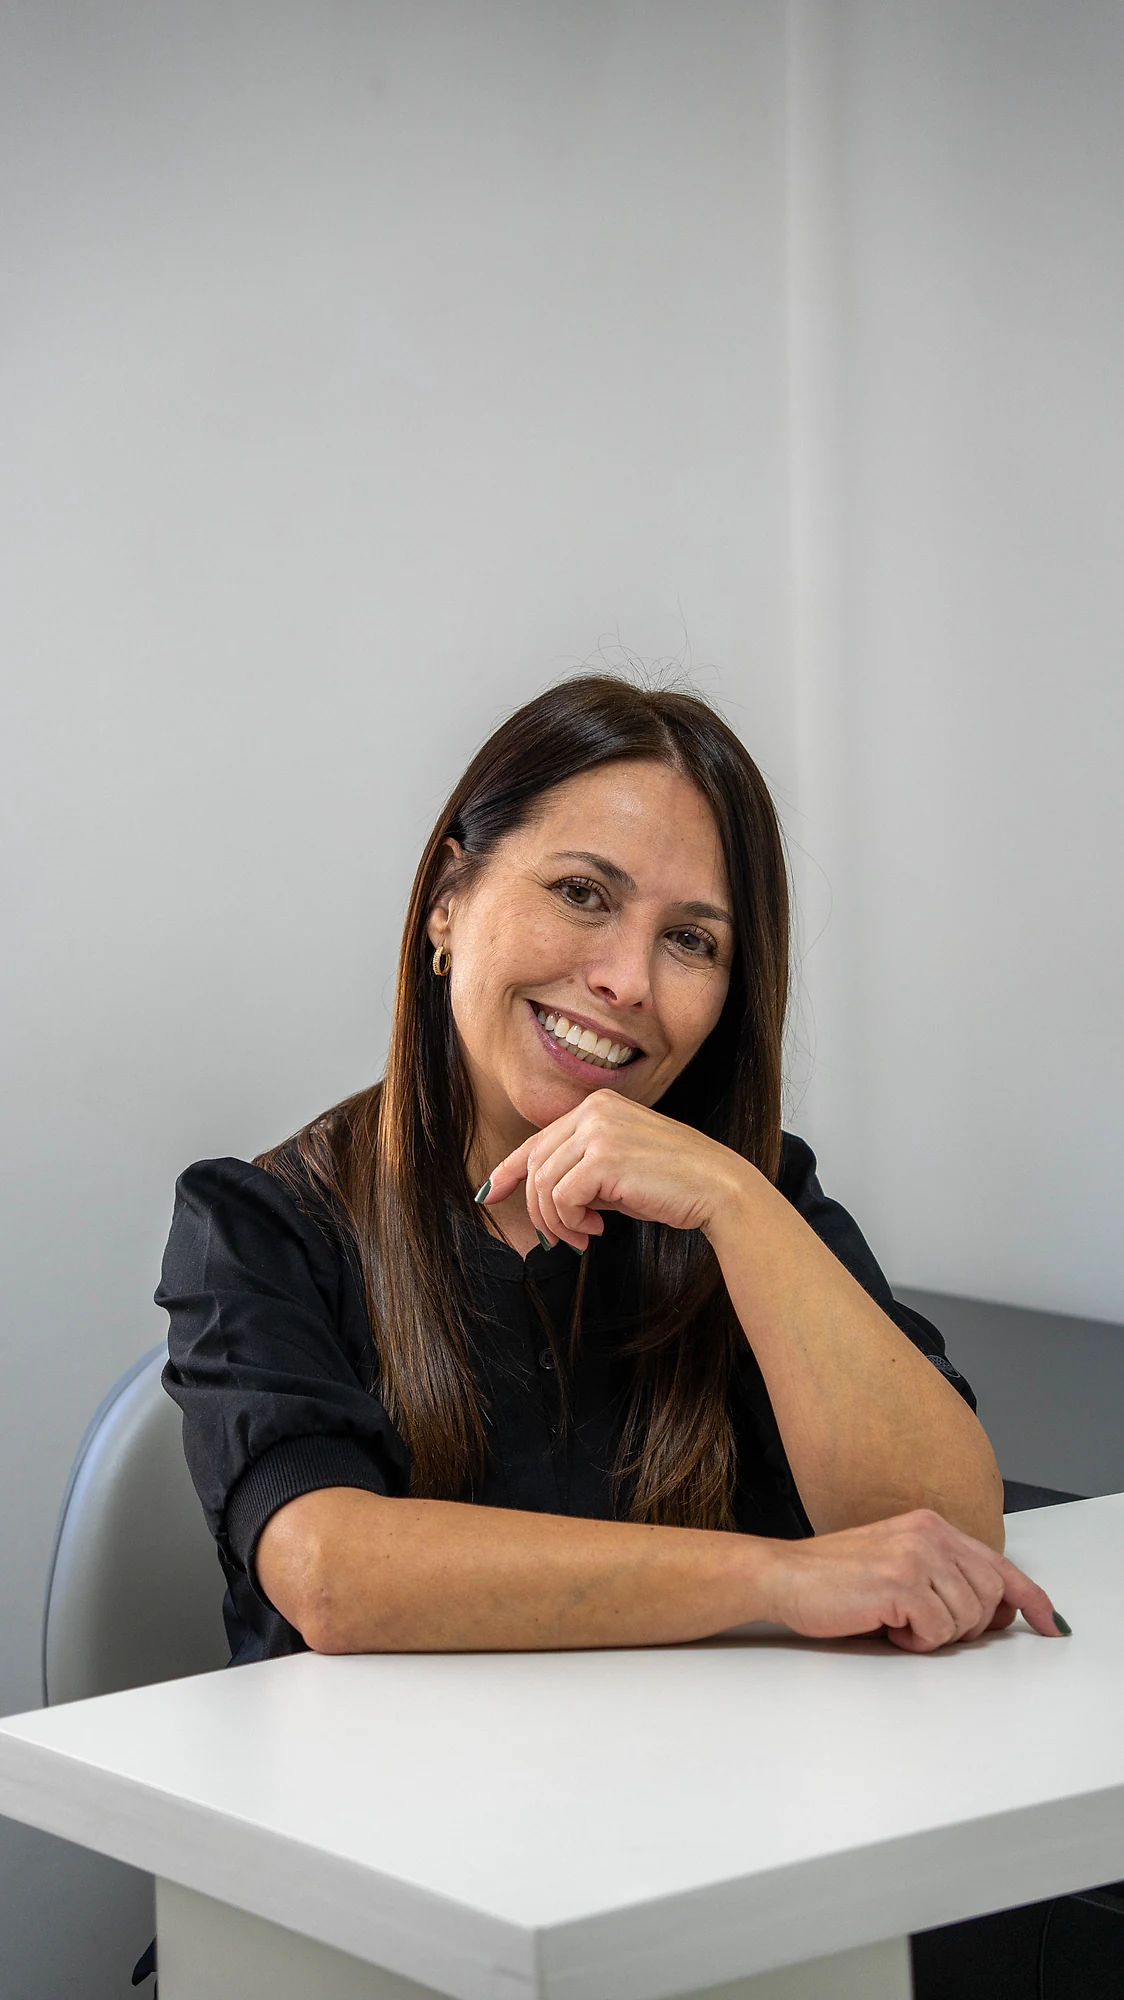
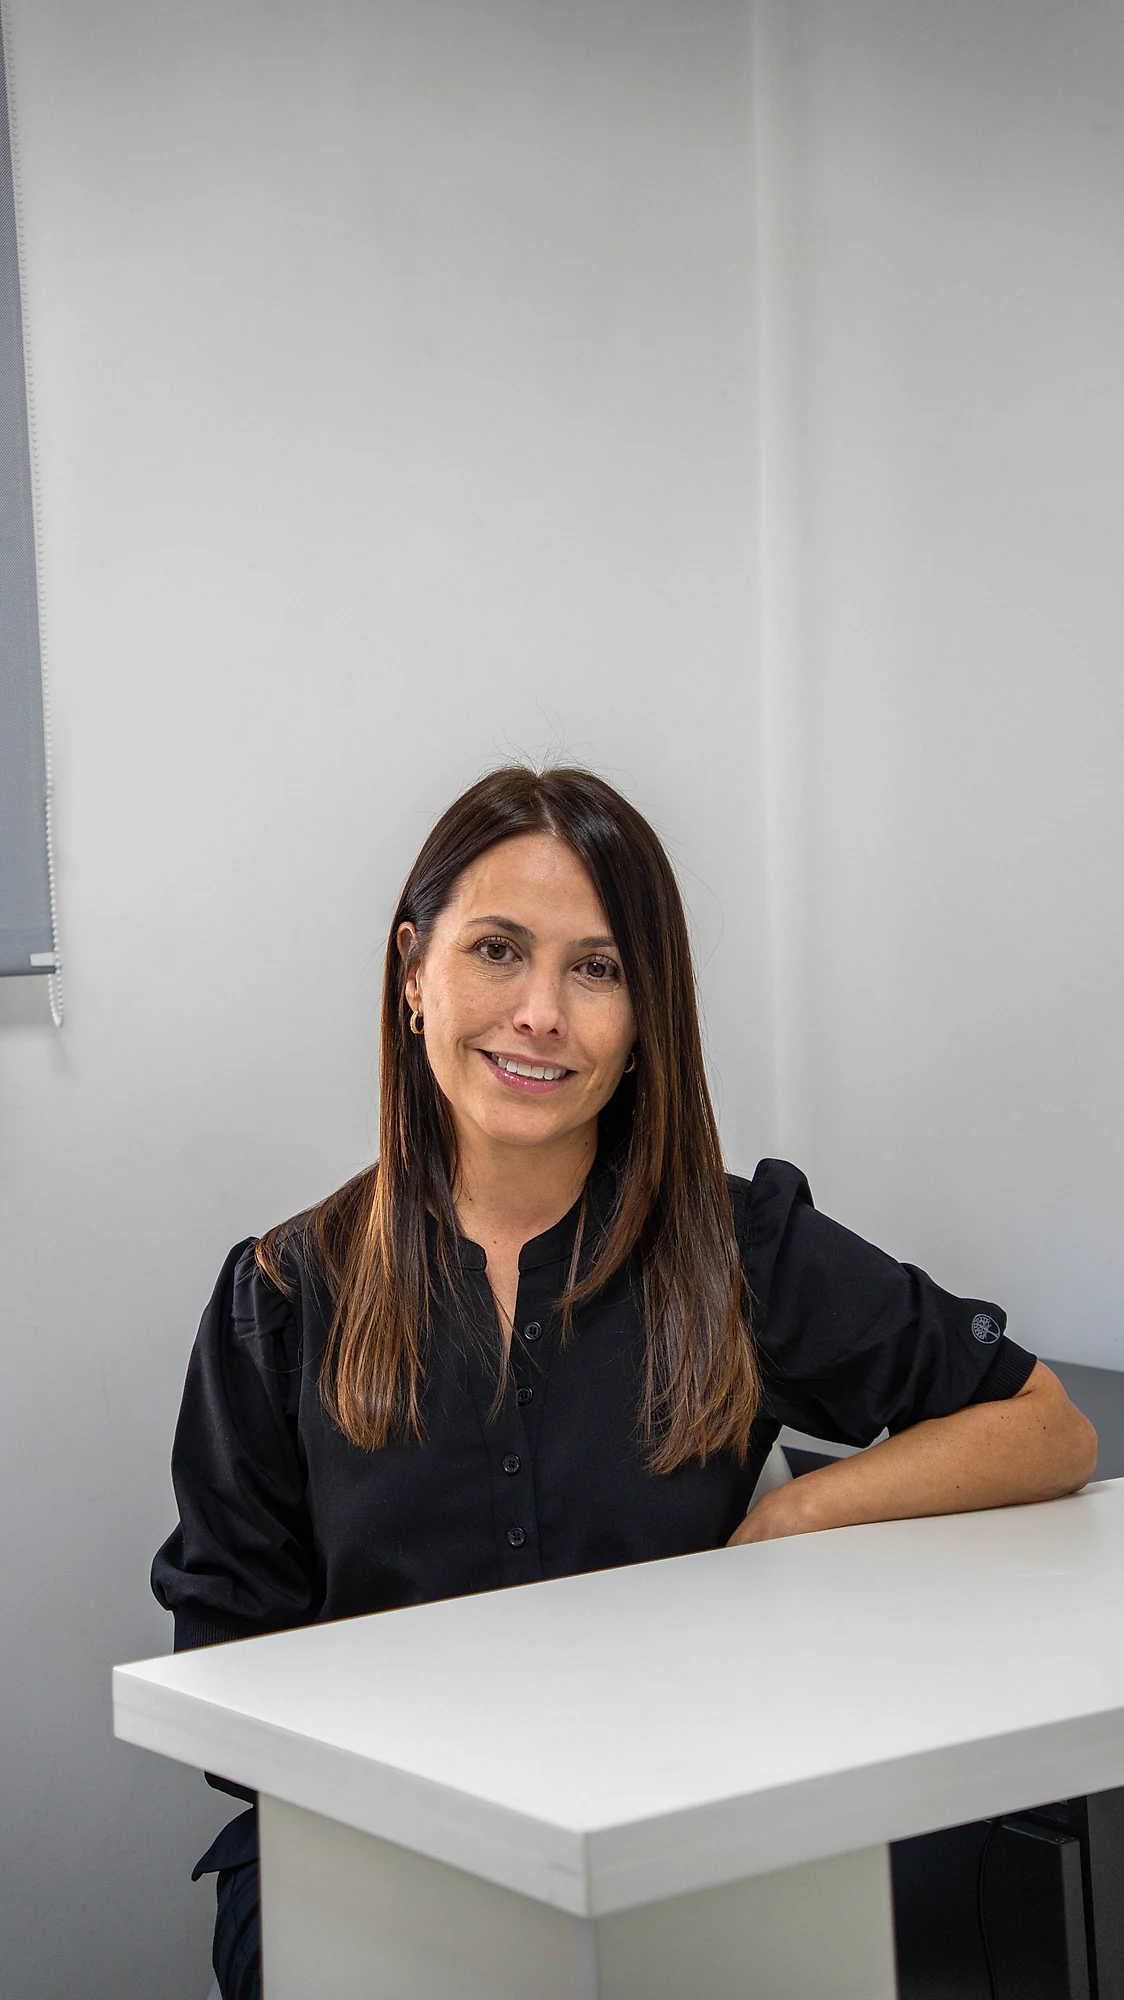
mejoras en mobile

diff --git a/src/components/sections/Hero.tsx b/src/components/sections/Hero.tsx
@@ -29,6 +29,62 @@ const PRECARGA_MS = 1200;
 const RISE_DELAY = { eyebrow: "0.1s", cta: "0.21s" };
 
 /**
+ * Pastilla, titular y bajada de un servicio.
+ *
+ * Aparte para poder dibujarlo dos veces: el que se ve y el que, sin verse,
+ * reserva el alto de la caja. Si fueran dos bloques de markup distintos, uno
+ * quedaría desfasado del otro al primer retoque de tipografía o de espaciado.
+ */
+function TitularServicio({
+  service,
+  className,
+}: {
+  service: (typeof services)[number];
+  className?: string;
+}) {
+  return (
+    <div className={className}>
+      {/* El nombre del servicio. Antes iba en verde claro suelto sobre la foto
+          y contra un consultorio blanco desaparecía; en pastilla llena gana
+          fondo propio y queda una jerarquía clara con el saludo de arriba, que
+          va en contorno.
+
+          El relleno es un degradé y no un plano: en plano la pastilla se leía
+          como una etiqueta pegada. El degradé de claro a oscuro, el filete de
+          luz de un píxel en el borde superior y el aro interior le dan el
+          volumen que le faltaba. El ícono del servicio, en disco crema, la
+          ancla a lo que está mostrando el carrusel. */}
+      <p className="relative inline-flex items-center gap-2 overflow-hidden rounded-full bg-linear-to-b from-primary-500 to-primary-700 py-1.5 pr-4 pl-1.5 text-xs font-semibold tracking-[0.16em] text-cream-50 uppercase shadow-lg shadow-primary-900/35 ring-1 ring-cream-50/30 ring-inset">
+        <span
+          aria-hidden
+          // Se apaga hacia las puntas: a lo ancho completo se leía como una
+          // línea dibujada y no como un reflejo.
+          className="absolute inset-x-3 top-0 h-px bg-linear-to-r from-transparent via-cream-50/55 to-transparent"
+        />
+        <span
+          aria-hidden
+          className="inline-flex size-6 shrink-0 items-center justify-center rounded-full bg-cream-50 text-primary-700 shadow-sm shadow-primary-900/25"
+        >
+          {renderServiceIcon(service.icon, {
+            className: "size-3.5",
+            strokeWidth: 2,
+          })}
+        </span>
+        {service.name}
+      </p>
+      {/* La sombra de texto sostiene la lectura sobre las zonas claras de la
+          foto sin tener que oscurecer el overlay, que apagaría la imagen. */}
+      <h1 className="mt-5 font-serif text-4xl leading-[1.08] text-balance text-cream-50 [text-shadow:0_2px_20px_rgba(0,0,0,0.45)] sm:text-5xl lg:text-6xl">
+        {service.heroTitle}
+      </h1>
+      <p className="mt-6 max-w-xl text-lg leading-relaxed text-pretty text-cream-50/95 [text-shadow:0_1px_12px_rgba(0,0,0,0.5)]">
+        {service.heroSubtitle}
+      </p>
+    </div>
+  );
+}
+
+/**
  * Hero por capas: la foto del servicio activo ocupa toda la sección, un
  * degradé oscuro sostiene la legibilidad del texto y el abanico de cards de
  * abajo a la derecha es el que decide qué foto se ve.
@@ -191,7 +247,24 @@ export function Hero() {
               y, de paso, la navbar leía ese retroceso como "el usuario subió" y
               se destapaba sola. Apilados en grid el alto es el mayor de los dos
               y nunca la suma, así que no hay fotograma intermedio que corregir. */}
+          {/* El `min-h` es un piso, no el alto real: cuando el texto no entra,
+              manda el texto. En pantallas angostas cada servicio parte en
+              distinta cantidad de renglones —entre 246 y 314 px a 320 px de
+              ancho—, así que el hero cambiaba de alto en cada giro y arrastraba
+              con él a toda la página. Por eso va, en la misma celda y sin ver,
+              una copia de los cinco titulares: la celda mide siempre lo que el
+              más largo, en cualquier ancho y sin números a mano. */}
           <div className="relative mt-7 grid min-h-56 sm:min-h-60 lg:min-h-64">
+            <div aria-hidden className="invisible grid [grid-area:1/1]">
+              {services.map((service) => (
+                <TitularServicio
+                  key={service.slug}
+                  service={service}
+                  className="[grid-area:1/1] self-start"
+                />
+              ))}
+            </div>
+
             <AnimatePresence initial={false}>
               <motion.div
                 key={active}
@@ -204,44 +277,7 @@ export function Hero() {
                 }}
                 className="[grid-area:1/1] self-start"
               >
-                {/* El nombre del servicio. Antes iba en verde claro suelto
-                    sobre la foto y contra un consultorio blanco desaparecía;
-                    en pastilla llena gana fondo propio y queda una jerarquía
-                    clara con el saludo de arriba, que va en contorno.
-
-                    El relleno es un degradé y no un plano: en plano la
-                    pastilla se leía como una etiqueta pegada. El degradé de
-                    claro a oscuro, el filete de luz de un píxel en el borde
-                    superior y el aro interior le dan el volumen que le
-                    faltaba. El ícono del servicio, en disco crema, la ancla
-                    a lo que está mostrando el carrusel. */}
-                <p className="relative inline-flex items-center gap-2 overflow-hidden rounded-full bg-linear-to-b from-primary-500 to-primary-700 py-1.5 pr-4 pl-1.5 text-xs font-semibold tracking-[0.16em] text-cream-50 uppercase shadow-lg shadow-primary-900/35 ring-1 ring-cream-50/30 ring-inset">
-                  <span
-                    aria-hidden
-                    // Se apaga hacia las puntas: a lo ancho completo se leía
-                    // como una línea dibujada y no como un reflejo.
-                    className="absolute inset-x-3 top-0 h-px bg-linear-to-r from-transparent via-cream-50/55 to-transparent"
-                  />
-                  <span
-                    aria-hidden
-                    className="inline-flex size-6 shrink-0 items-center justify-center rounded-full bg-cream-50 text-primary-700 shadow-sm shadow-primary-900/25"
-                  >
-                    {renderServiceIcon(services[active].icon, {
-                      className: "size-3.5",
-                      strokeWidth: 2,
-                    })}
-                  </span>
-                  {services[active].name}
-                </p>
-                {/* La sombra de texto sostiene la lectura sobre las zonas
-                    claras de la foto sin tener que oscurecer el overlay, que
-                    apagaría la imagen entera. */}
-                <h1 className="mt-5 font-serif text-4xl leading-[1.08] text-balance text-cream-50 [text-shadow:0_2px_20px_rgba(0,0,0,0.45)] sm:text-5xl lg:text-6xl">
-                  {services[active].heroTitle}
-                </h1>
-                <p className="mt-6 max-w-xl text-lg leading-relaxed text-pretty text-cream-50/95 [text-shadow:0_1px_12px_rgba(0,0,0,0.5)]">
-                  {services[active].heroSubtitle}
-                </p>
+                <TitularServicio service={services[active]} />
               </motion.div>
             </AnimatePresence>
           </div>

diff --git a/src/components/shared/ShineButton.tsx b/src/components/shared/ShineButton.tsx
@@ -63,11 +63,24 @@ const fillLayers = {
   clinic: "bg-linear-to-t from-clinic-900 to-clinic-500",
 } as const;
 
+/**
+ * `min-h` y no `h`: con una etiqueta larga en una pantalla angosta el texto
+ * pasa a dos líneas, y con alto fijo la segunda se salía de la pastilla. En una
+ * sola línea el alto es el mismo de siempre —el `py` queda muy por debajo del
+ * mínimo—, así que no cambia nada de lo que ya entraba.
+ */
 const sizes = {
-  /** Único tamaño del sitio: el de los CTA del hero. */
-  default: "h-13 px-7 text-base",
+  /**
+   * Único tamaño del sitio: el de los CTA del hero.
+   *
+   * El relleno lateral cede en pantallas angostas. Con 28 px fijos a cada lado,
+   * etiquetas como "Conocé nuestros servicios" pedían 283 px dentro de una
+   * columna de 280 y partían en dos renglones por tres píxeles. De `sm` para
+   * arriba vuelve a ser el de siempre.
+   */
+  default: "min-h-13 px-5 py-2 text-base sm:px-7",
   /** Solo donde el ancho es crítico; mantiene la misma altura visual. */
-  compact: "h-11 px-5 text-sm",
+  compact: "min-h-11 px-4 py-1.5 text-sm sm:px-5",
 } as const;
 
 export type ShineTone = keyof typeof tones;
@@ -103,7 +116,15 @@ export function ShineButton({
   ...rest
 }: ShineButtonProps) {
   const classes = cn(
-    "auris-btn group relative inline-flex shrink-0 items-center justify-center gap-2 overflow-hidden rounded-full font-semibold whitespace-nowrap",
+    // Sin `whitespace-nowrap` y con `max-w-full`: un botón que no puede cortar
+    // su texto tiene un ancho mínimo igual al de su etiqueta entera, y ese
+    // mínimo se lo impone a lo que lo contiene. El CTA de la ficha del
+    // profesional dice "Solicitar turno con <nombre completo>" y llegaba a
+    // pedir 368 px, más que un teléfono de 320: la columna del hero se estiraba
+    // a ese ancho y el título, el rótulo y la foto quedaban cortados contra el
+    // borde derecho. Pudiendo cortar el texto, el mínimo pasa a ser el de la
+    // palabra más larga y el botón se acomoda a lo que haya.
+    "auris-btn group relative inline-flex max-w-full shrink-0 items-center justify-center gap-2 overflow-hidden rounded-full text-center font-semibold",
     // Sin rebote y sin `scale`: solo eleva y asienta.
     //
     // Los dos `--tw-gradient-*` son necesarios: los tonos con degradé cambian

diff --git a/src/components/shared/ProfessionalFicha.tsx b/src/components/shared/ProfessionalFicha.tsx
@@ -367,7 +367,7 @@ export function ProfessionalFicha({
           {/* Mosaico: una grande arriba, dos chicas abajo lado a lado. Más
               alto que ancho —4:5, como un retrato— y con la grande pesando el
               doble que cada chica, para que se note quién manda en el grupo. */}
-          <Reveal from="right" className="relative pb-10 sm:pb-12">
+          <Reveal from="right" className="relative">
             <div className="grid aspect-4/5 grid-rows-[2fr_1fr] gap-3 sm:gap-4">
               <div
                 className={cn(
@@ -433,10 +433,20 @@ export function ProfessionalFicha({
               </div>
             </div>
 
+            {/* Antes iba en `absolute bottom-0`, apoyada sobre las dos fotos de
+                abajo y tapándoles media altura. Ahora cuelga del mosaico: va
+                debajo, con el mismo ancho corto y pegada al borde izquierdo de
+                la columna, así sigue leyéndose como parte del grupo sin comerse
+                ninguna foto.
+
+                De `lg` para abajo no se muestra. Es exactamente donde la ficha
+                deja de ser dos columnas: ahí el mosaico pasa a ocupar el ancho
+                completo y una pastilla suelta debajo no acompaña a nada, solo
+                alarga la página. */}
             {ficha.destacado && (
               <div
                 className={cn(
-                  "group absolute bottom-0 left-4 max-w-68 rounded-2xl border bg-white p-5 shadow-[0_8px_30px_-8px_rgba(43,43,40,0.3)] transition-[translate,box-shadow] duration-500 hover:-translate-y-1.5 hover:shadow-[0_16px_40px_-10px_rgba(43,43,40,0.4)] sm:left-8",
+                  "group mt-4 hidden max-w-68 rounded-2xl border bg-white p-5 shadow-[0_8px_30px_-8px_rgba(43,43,40,0.3)] transition-[translate,box-shadow] duration-500 hover:-translate-y-1.5 hover:shadow-[0_16px_40px_-10px_rgba(43,43,40,0.4)] lg:block",
                   suave,
                   p.borde,
                 )}

diff --git a/src/components/layout/Navbar.tsx b/src/components/layout/Navbar.tsx
@@ -23,10 +23,26 @@ const ENLACE_ACTIVO = "bg-primary-300 text-primary-900";
 const ENLACE_QUIETO =
   "text-primary-700 hover:bg-primary-200 hover:text-primary-900";
 
-/** Ruido de scroll por debajo de esto no cambia el estado de la navbar. */
-const DELTA_THRESHOLD = 6;
-/** Recién a partir de acá tiene sentido esconderla. */
-const HIDE_AFTER = 120;
+/**
+ * Ruido de scroll por debajo de esto no cambia el estado de la navbar.
+ *
+ * Es por evento de scroll, no acumulado: un gesto real mueve decenas de píxeles
+ * por fotograma, así que 4 alcanza para descartar el temblor del dedo y la
+ * corrección de una barra de direcciones que se repliega, y no para frenar un
+ * arrastre lento de verdad.
+ */
+const DELTA_THRESHOLD = 4;
+/**
+ * Recién a partir de acá tiene sentido esconderla.
+ *
+ * Estaba en 120: había que bajar bastante antes de que reaccionara y se sentía
+ * lenta. Ahora es el alto de la propia navbar (`h-20`, 80 px): se va justo
+ * cuando igual estaría por salir de pantalla, que es el primer momento en que
+ * esconderla no le saca nada al usuario. Por debajo de eso —y hasta 8 px del
+ * tope, donde vuelve sola— se queda quieta, así un rebote corto cerca del
+ * encabezado no la hace parpadear.
+ */
+const HIDE_AFTER = 80;
 
 export function Navbar() {
   const pathname = usePathname();

diff --git a/src/lib/data/fichas.ts b/src/lib/data/fichas.ts
@@ -1009,9 +1009,11 @@ const encuadreBanner: Record<
   },
   // Sentada al escritorio: la cara le queda justo debajo de la mitad.
   "claudia-tomasi": {
-    // Sentada y lejos en su foto 6, con mucha pared vacía arriba: recién
-    // pasado el 50% la cara queda centrada en la franja sin cortarle el pelo.
-    bannerFoco: "center 50%",
+    // Su foto 6 es la toma apoyada en la mano, más cerca y más alta en el
+    // cuadro que la anterior: con el 50% que pedía aquella, a esta la franja le
+    // cortaba el pelo. En el 43% la cabeza entra entera y la mano sigue dentro
+    // del recorte; bajando más, la cara se va al piso de la franja.
+    bannerFoco: "center 43%",
     bannerCorrimiento: "19%",
     // Su foto 3 la muestra escribiendo: bajando el recorte entra la escena
     // entera —el escritorio, las manos, la lapicera— y no solo la cabeza. En

diff --git a/src/components/sections/CtaBanner.tsx b/src/components/sections/CtaBanner.tsx
@@ -18,7 +18,10 @@ export function CtaBanner({
   return (
     <section className="container-auris py-20 lg:py-24">
       <Reveal>
-        <div className="relative overflow-hidden rounded-[2.5rem] bg-primary-700 px-7 py-12 sm:px-12 lg:px-16 lg:py-14">
+        {/* 20 px de aire a los costados en lo más angosto, no 28: con 28 el
+            recuadro dejaba 224 px libres y "Hablar por WhatsApp" pedía 227, así
+            que el botón partía en dos renglones. */}
+        <div className="relative overflow-hidden rounded-[2.5rem] bg-primary-700 px-5 py-12 sm:px-12 lg:px-16 lg:py-14">
           <div
             aria-hidden
             className="absolute inset-0 opacity-30"

diff --git a/CHANGELOG.md b/CHANGELOG.md
@@ -1,5 +1,89 @@
 # Changelog
 
+## 2026-09-28 — Auditoría de mobile: contenido cortado, tarjeta del mosaico, hero y navbar
+
+### 1. La ficha del profesional se cortaba contra el borde derecho
+
+- **Qué pasaba.** En 320–412 px, el título, el rótulo "EQUIPO AURIS", las
+  etiquetas y la foto del hero quedaban corridos a la derecha y cortados. No
+  había scroll horizontal: la sección lleva `overflow-hidden`, así que lo que
+  sobraba desaparecía en vez de poder alcanzarse.
+- **Causa, medida.** El CTA "Solicitar turno con \<nombre completo\>" llevaba
+  `whitespace-nowrap`. Un botón que no puede cortar su texto tiene un ancho
+  mínimo igual al de su etiqueta entera —368 px en Romina Tchakerian, 339 en
+  Claudia Tomasi, 299 en Ariel Vidal— y las celdas de un grid no bajan de su
+  contenido mínimo. La columna se estiraba a ese ancho dentro de un contenedor
+  de 280, y todo lo que colgaba de ella se iba con ella. Afectaba a **todas**
+  las fichas: hasta la etiqueta más corta pedía 299 px en una pantalla de 320.
+- **Arreglo.** `ShineButton` deja de llevar `whitespace-nowrap` y gana
+  `max-w-full`; el alto fijo pasa a ser mínimo (`h-13` → `min-h-13`) para que un
+  texto en dos renglones no se salga de la pastilla. En una sola línea el alto
+  es el de siempre.
+- **Efecto lateral, corregido.** Con el texto pudiendo cortarse, cuatro botones
+  de la portada pasaban a dos renglones a 320 px por tres píxeles de diferencia
+  ("Conocé nuestros servicios" pedía 283 dentro de 280). El relleno lateral cede
+  en pantallas angostas (`px-5 sm:px-7`, y `px-4 sm:px-5` en el compacto) y el
+  banner de cierre bajó su `px-7` a `px-5`. Con eso el único que sigue en dos
+  renglones es el CTA de la ficha, que con el nombre completo no entra de otra
+  forma en un teléfono.
+
+### 2. La tarjeta blanca del mosaico ya no tapa las fotos
+
+- En escritorio estaba en `absolute bottom-0` y se apoyaba sobre las dos fotos
+  de abajo. Ahora cuelga del mosaico: va debajo del grid, con el mismo ancho
+  corto y pegada al borde izquierdo de la columna.
+- De `lg` para abajo no se muestra (`hidden lg:block`): es justo donde la ficha
+  deja de ser dos columnas. Verificado en siete anchos —`display: none`, 0 px de
+  alto y 0 de ancho hasta 768; 272×129 y en el flujo desde 1024—.
+
+### 3. Hero de la portada: el alto ya no se mueve en mobile
+
+- En 320, 360 y 375 px el alto del hero variaba 38–39 px en cada giro del
+  carrusel y arrastraba el scroll de toda la página. El piso `min-h-56` (224 px)
+  quedaba corto: ahí cada servicio parte en distinta cantidad de renglones y la
+  caja iba de 246 a 314 px según el texto.
+- Ahora la celda lleva, sin verse, una copia de los cinco titulares, así que
+  mide siempre lo que el más largo, en cualquier ancho y sin números a mano. El
+  bloque se extrajo a `TitularServicio` para no tener dos markups que se
+  desincronicen.
+- Verificado 22 segundos por ancho en 320/360/375/390/412/430: **variación 0 px
+  y ningún salto de scroll**.
+
+### 4. La navbar responde antes
+
+- `HIDE_AFTER` pasa de 120 px a 80, el alto de la propia navbar: se va justo
+  cuando igual estaría por salir de pantalla. `DELTA_THRESHOLD`, de 6 a 4.
+- Sigue quieta cerca del tope: con un temblor de ±6 px no se mueve, y bajando
+  3000 px seguidos no parpadea. Al subir 30 px vuelve enseguida.
+
+### Encontrado y no modificado
+
+- **Lo que queda "fuera de cuadro" es intencional**: el zoom del recuadro de
+  cifras, el corrimiento de la foto del banner, la marquesina de testimonios, el
+  acordeón de equipo, el riel horizontal de "Nuestra historia" y el recorte con
+  aire del visor del recorrido. Todos recortan a propósito y el contenido se
+  alcanza deslizando o no es contenido.
+- **En 768 px la caja del titular varía 2 px entre servicios.** Sin efecto sobre
+  el scroll; ya estaba anotado.
+
+## 2026-09-28 — Claudia Tomasi: se dieron vuelta sus fotos 2 y 6
+
+- **Los archivos ya venían intercambiados desde el centro**, así que no hubo
+  nada que cablear: la 2 y la 6 se resuelven por nombre de archivo. Alcanzó con
+  `npm run optimize:images` —reprocesó esas dos y nada más— y regenerar el
+  manifiesto. La 6 salió por el preset panorámico (2560) y la 2 por retrato
+  (2000), como corresponde a cada puesto.
+- **La que ahora es la 2** —sentada, con los brazos apoyados— es la que alterna
+  con la 1 cada 3 segundos en el hero de su ficha y la que aparece al pasar el
+  cursor, ahí y en las tarjetas del listado. Verificado en las dos.
+- **La que ahora es la 6** —apoyada en la mano— es el fondo del banner de su
+  frase.
+- **Se recalibró el encuadre del banner.** El `bannerFoco` estaba en 50% para la
+  foto anterior, que la tenía más lejos y con pared vacía arriba; la nueva está
+  más cerca y más alta, y con ese valor la franja le cortaba el pelo. Medido
+  contra siete valores en el navegador: en 43% la cabeza entra entera y la mano
+  sigue dentro del recorte. El `bannerCorrimiento` (19%) no hizo falta tocarlo.
+
 ## 2026-09-22 — El tirón de scroll cada 4 segundos en la portada
 
 - **La portada daba un salto de scroll cada 4 segundos.** Se reportó como algo
